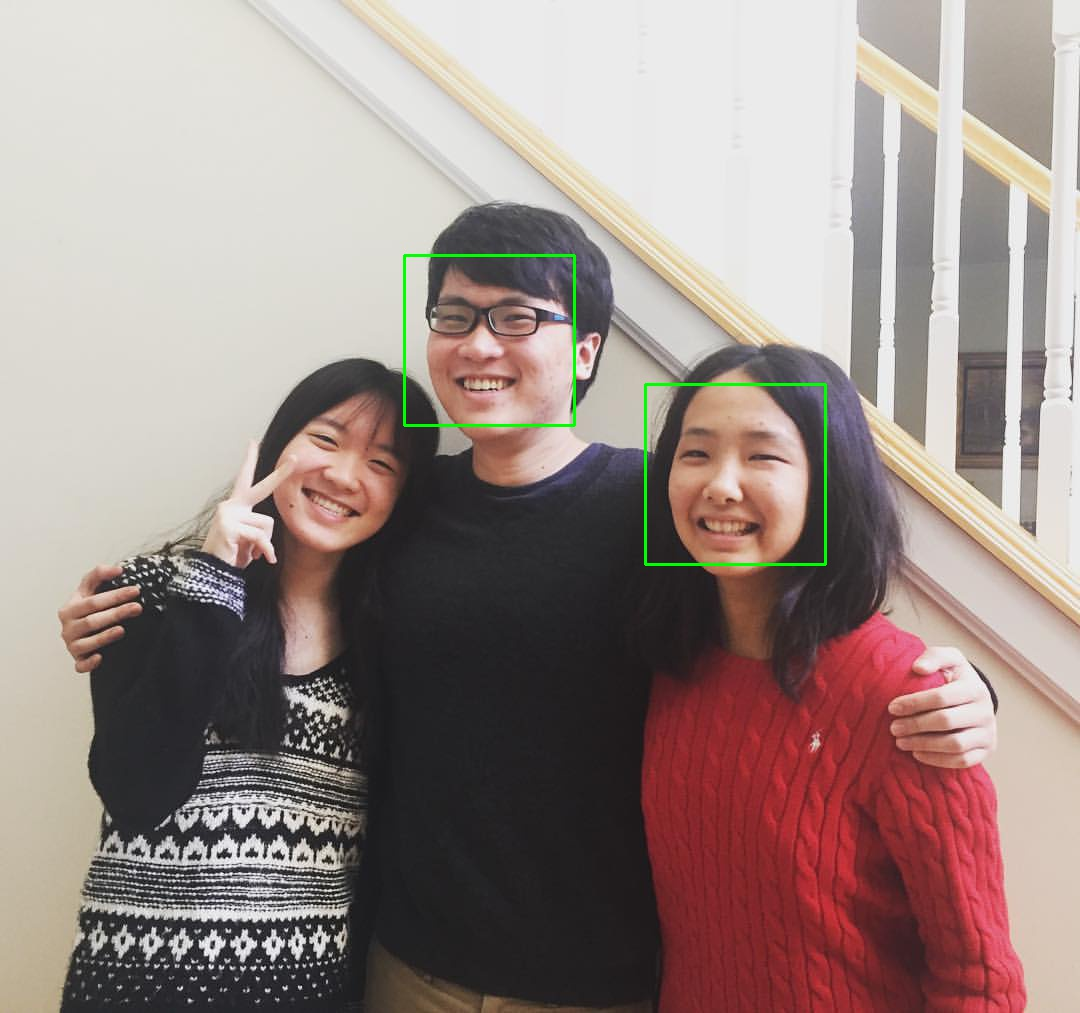
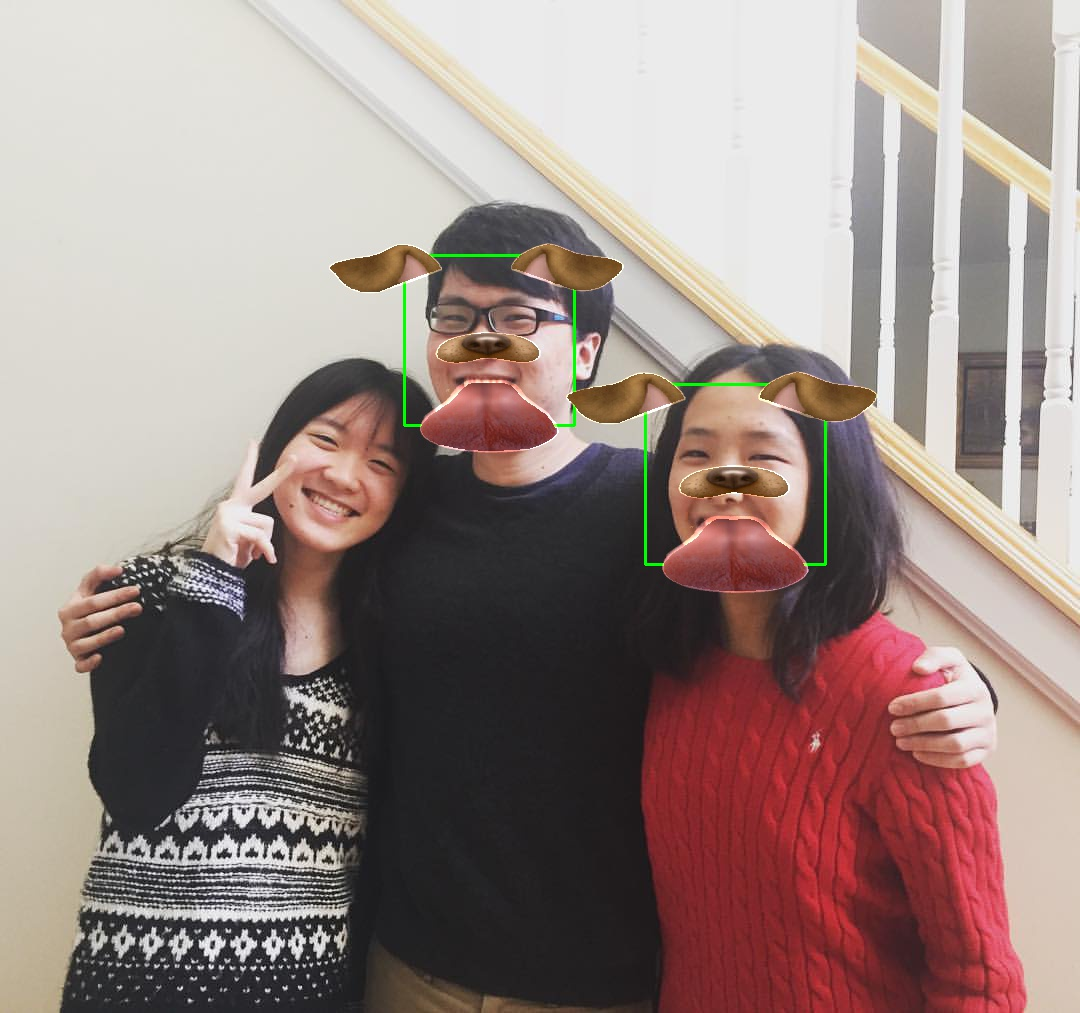
face somewhat working

diff --git a/src/face.py b/src/face.py
@@ -3,12 +3,26 @@ import os
 
 data_source = os.path.join("..", "data")
 
-def find_face(imagePath, imageOverlay=""):
+def overlay_face(imagePath, imageOverlay =
+    os.path.join(data_source, 'overlays', 'dog_face_tongue.png')):
 
     face_cascade = cv2.CascadeClassifier(
         os.path.join(data_source,
         'haarcascades',
         'haarcascade_frontalface_default.xml'))
+
+    overlay = cv2.imread(imageOverlay, -1)
+    # Create the mask for the overlay
+    orig_mask = overlay[:,:,3]
+
+    # Create the inverted mask for the overlay
+    orig_mask_inv = cv2.bitwise_not(orig_mask)
+
+    # Convert overlay image to BGR
+    # and save the original image size (used later when re-sizing the image)
+    overlay = overlay[:,:,0:3]
+
+    orig_h, orig_w = overlay.shape[:2]
 
     image = cv2.imread(imagePath)
     gray_scale = cv2.cvtColor(image, cv2.COLOR_BGR2GRAY)
@@ -17,18 +31,80 @@ def find_face(imagePath, imageOverlay=""):
         gray_scale,
         scaleFactor=1.1,
         minNeighbors=5,
-        minSize=(30, 30)
+        flags = cv2.CASCADE_SCALE_IMAGE
     )
 
-    print 'Found {0} faces!'.format(len(faces))
-
     # Draw a rectangle around the faces
-    for (x, y, w, h) in faces:
-        cv2.rectangle(image, (x, y), (x+w, y+h), (0, 255, 0), 2)
+    # found from http://sublimerobots.com/2015/02/dancing-mustaches/
+    for (nx, ny, nw, nh) in faces:
+        cv2.rectangle(image, (nx, ny), (nx+nw, ny+nh), (0, 255, 0), 2)
+
+        roi_gray = gray_scale[ny:ny+nh, nx:nx+nw]
+        roi_color = image[ny:ny+nh, nx:nx+nw]
+
+        overlay_w = nw*.75
+        overlay_h = overlay_w*1.2 * orig_h / orig_w
+
+        print overlay_w
+        print overlay_h
+
+        # Center image on the center of the face
+        x1 = int(nx - (overlay_w/2)-overlay_w/12)
+        x2 = int(nx + nw + (overlay_w/2)-overlay_w/12)
+        y1 = int(ny + nh - (overlay_h/2)-overlay_h/3)
+        y2 = int(ny + nh + (overlay_h/2)-overlay_h/3)
+
+        # Check for clipping
+        # if x1 < 0:
+        #     x1 = 0
+        # if y1 < 0:
+        #     y1 = 0
+        # if x2 > nw:
+        #     x2 = nw
+        # if y2 > nh:
+        #     y2 = nh
+
+
+        # Re-calculate the width and height of the overlay
+        overlay_w = x2 - x1
+        overlay_h = y2 - y1
+
+        # print nw
+        # print nh
+        #
+        # print "----"
+        #
+        # print overlay_w
+        # print overlay_h
+        #
+        # print (nx, ny, nw, nh)
+        # print (x1, x2, y1, y2)
+
+
+        # Re-size the original image
+        overlayToUse = cv2.resize(overlay, (overlay_w, overlay_h),
+            interpolation = cv2.INTER_AREA)
+        mask = cv2.resize(orig_mask, (overlay_w, overlay_h),
+            interpolation = cv2.INTER_AREA)
+        mask_inv = cv2.resize(orig_mask_inv, (overlay_w, overlay_h),
+            interpolation = cv2.INTER_AREA)
+
+        roi = image[y1:y2, x1:x2]
+
+        roi_bg = cv2.bitwise_and(roi, roi, mask = mask_inv)
+
+        roi_fg = cv2.bitwise_and(overlayToUse, overlayToUse, mask = mask)
+
+        # join the roi_bg and roi_fg
+        dst = cv2.add(roi_bg,roi_fg)
+
+        # place the joined image, saved to dst back over the original image
+        image[y1:y2, x1:x2] = dst
+
 
     cv2.imwrite(os.path.join(data_source,
         'test_output', 'output.jpg'), image)
 
 
 if __name__ == '__main__':
-    find_face(os.path.join(data_source, 'test_data', 'test.jpg'))
+    overlay_face(os.path.join(data_source, 'test_data', 'test.jpg'))
